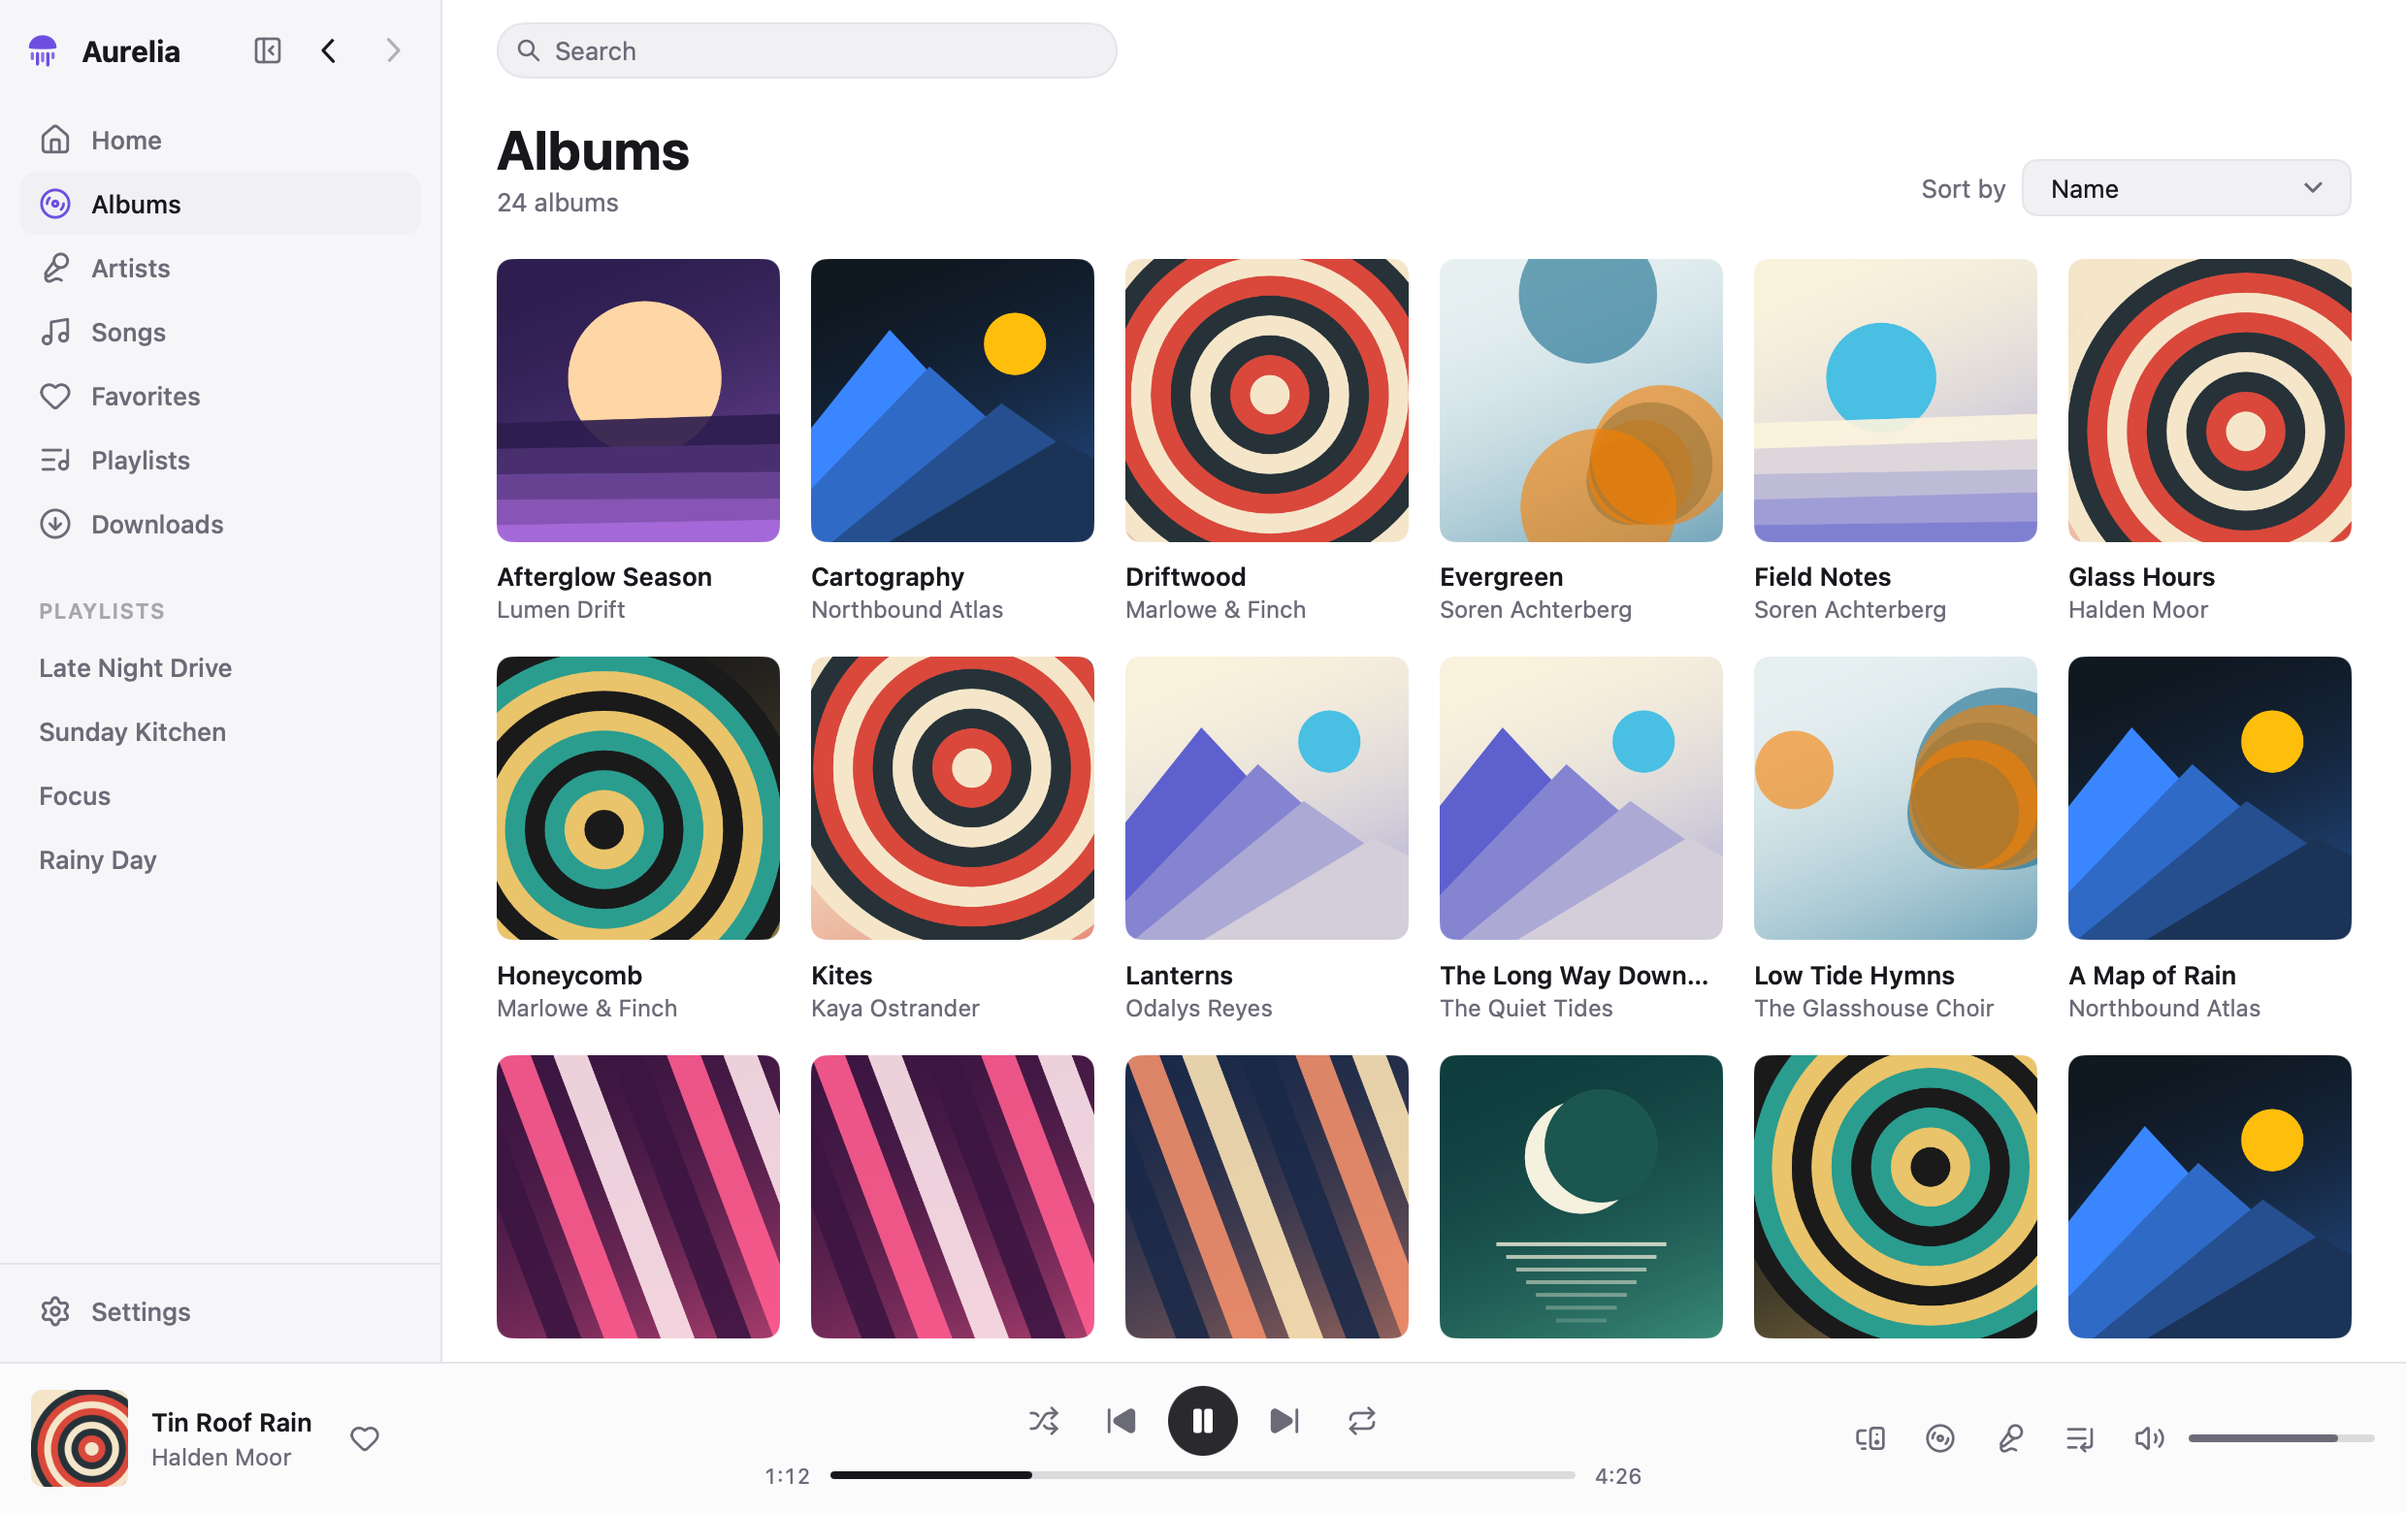
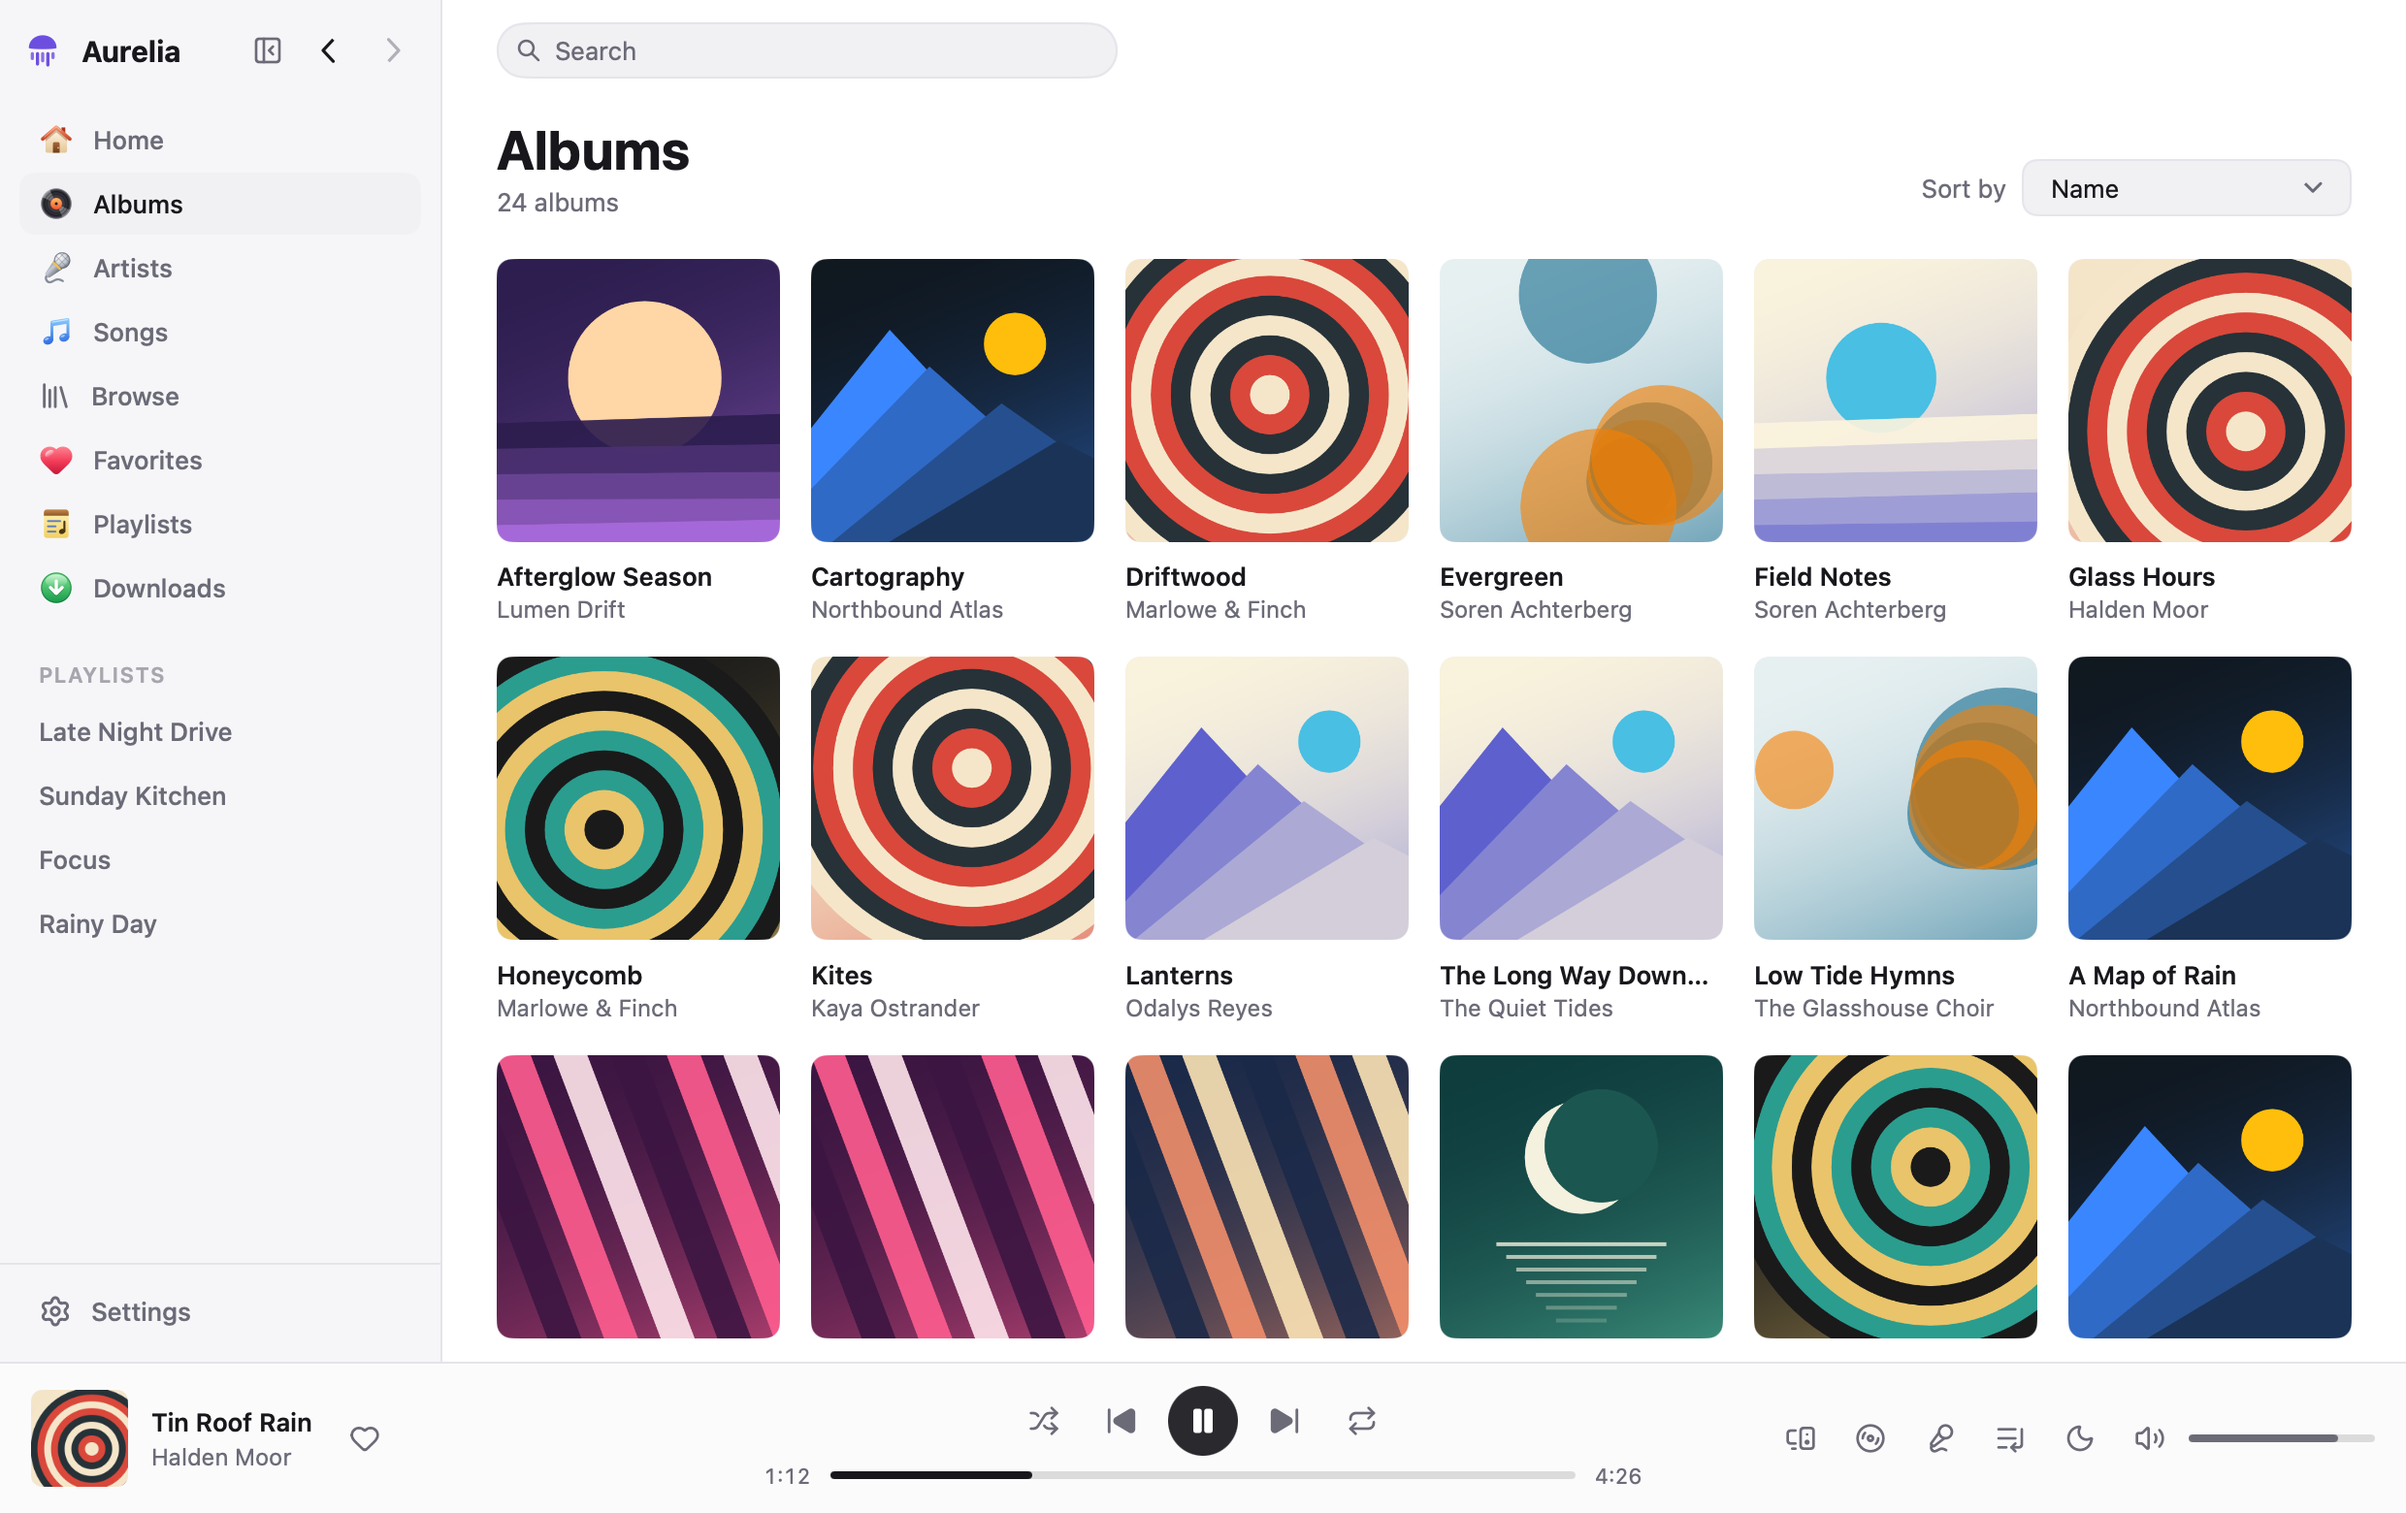
Aurelia 0.3.0
An equalizer, a choice of output device, crossfade and a sleep timer,
sharing a song or album as a picture, radio, playlists made here, browsing
by genre and decade, a tray icon, ListenBrainz scrobbling, LRCLIB lyrics and
short animations. README, screenshots and CHANGELOG are updated.

diff --git a/internal/jellyfin/client.go b/internal/jellyfin/client.go
@@ -18,7 +18,7 @@ import (
 
 // Version is sent to the server as the client's; the app sets it to its
 // own.
-var Version = "0.2.0"
+var Version = "0.3.0"
 
 // Session is a signed-in user on a server, which the app keeps between
 // runs. It holds a token, never the password.

diff --git a/README.md b/README.md
@@ -23,6 +23,9 @@ playlists. It does not show movies or shows.
 | ![Lyrics and the queue](docs/lyrics.png) | ![A window at its smallest](docs/small.png) |
 | ![Albums, in the light theme](docs/albums-light.png) | ![An artist, in Tokyo Night](docs/artist-tokyo-night.png) |
 | ![Search, in Catppuccin Mocha](docs/search-catppuccin.png) | ![The themes](docs/themes.png) |
+| ![Browsing by genre and decade](docs/browse.png) | ![The equalizer](docs/equalizer.png) |
+
+![Sharing an album as a picture](docs/share.png)
 
 The screenshots show a library made up for them, with pictures drawn by
 `screenshots_test.go`: `AURELIA_SCREENSHOTS=docs go test -run Screenshots .`
@@ -100,7 +103,42 @@ installing a newer `.deb` instead.
   connections. Volume normalization plays every song about as loud, at one
   of three levels as in Spotify: Louder, Normal or Quieter. Plays are
   reported to the server.
-- **Lyrics**, with the line being sung lit when the lyrics are timed.
+- **An equalizer** of ten bands and a preamp, with presets and your own,
+  heard the instant a slider moves; with mono audio and a balance.
+- **Your choice of output.** Settings ▸ Playback lists the computer's
+  outputs, and the one you choose is kept: the sound moves to it while a
+  song plays, and goes back to the system's default when it is not plugged
+  in, and back again when it is. **Crossfade** (2 to 12 seconds, never
+  between songs that follow each other on an album) and a **sleep timer**
+  (after a time, with the sound fading out, or at the end of the song or
+  the album) are there too.
+- **Share as a picture.** "Share as a Picture…" in the menu of a song or an
+  album makes a clean picture of its cover with its name and the artist's,
+  on white, on black, on a color of your own or on the cover's own colors,
+  square, tall for stories or wide, to copy or save as a PNG.
+- **Radio.** "Start Radio" on a song, an album or an artist plays songs the
+  server finds like it; "Keep playing similar songs" (off unless you turn it
+  on) goes on with them when the queue ends. Artists' pages say who else
+  their fans like.
+- **Playlists, made here.** Add a song or an album to a playlist, make a new
+  one, rename it, put its songs in another order, take one out, delete it,
+  or keep the queue as a playlist. They are the server's, so every device
+  has them.
+- **Browse by genre and by decade**, "Your listening" (what you play most),
+  and the songs sorted by what was played lately, most, or never. Pin
+  albums, artists and playlists to the sidebar.
+- **Lyrics**, with the line being sung lit when the lyrics are timed. When
+  the server has none, Aurelia can ask LRCLIB, a free database of them, if
+  you let it (Settings ▸ Playback; it is told the song's artist, title,
+  album and length).
+- **On your desktop.** An icon in the menu bar or the tray with the song and
+  its buttons (and closing the window leaves the music playing), a
+  notification as the song changes while Aurelia is behind, and
+  **scrobbling to ListenBrainz** or a server of your own that speaks as it
+  does: your token in Settings ▸ Scrobbling.
+- **Short animations**, a hint of movement as pages, panels and pictures
+  come in, that follow the system's Reduce motion (Settings ▸ Appearance ▸
+  Animations).
 - **The record.** A button of the player's bar, or V, shows the song in
   place of the app: its cover as a record that turns while it plays, over
   the cover's own colors, and the lyrics under it, each line sliding up as
@@ -306,6 +344,7 @@ Colors are `#rgb`, `#rrggbb`, `#rrggbbaa`, `rgb()`, `rgba()` or `hsl()`.
 | ⌥⇧H, ⌥⇧4, ⌥⇧3, ⌥⇧2, ⌥⇧S, ⌥⇧1, ⌥⇧D | Home, Albums, Artists, Songs, Favorites, Playlists, Downloads; ⌘1 … ⌘6 too |
 | ⌥⇧J | The album of the song playing |
 | ⌥⇧Q / ⌥⇧L | The queue / the lyrics |
+| ⌥⇧E | The equalizer |
 | V / F / ⇧⌘M | The record in the window / in full screen / in a small window |
 | ⌘B | Show or hide the sidebar |
 | ⇧⌘R | Update the library |

diff --git a/CHANGELOG.md b/CHANGELOG.md
@@ -1,5 +1,33 @@
 # Changes
 
+## 0.3.0
+
+- An equalizer: ten bands and a preamp, presets and your own, heard as a
+  slider moves. Mono audio and a balance beside it.
+- A choice of output device in Settings ▸ Playback, kept between runs. The
+  sound moves while a song plays, falls back to the default when the device
+  is gone, and returns to it when it is back. On macOS, Linux (PulseAudio and
+  ALSA) and Windows.
+- Crossfade between songs, 2 to 12 seconds, never between songs that follow
+  each other on an album; and a sleep timer, after a time (the sound fades)
+  or at the end of the song or the album.
+- Share as a Picture: the cover, the name and the artist on white, black,
+  a color of your own or the cover's colors, as a square, a story or a wide
+  picture, copied or saved as a PNG.
+- Start Radio on songs, albums and artists, and "Keep playing similar
+  songs" for when the queue ends. "Fans also like" on artists' pages.
+- Playlists made here: add to a playlist, new, rename, delete, move and
+  remove songs, and keep the queue as a playlist. Pin albums, artists and
+  playlists to the sidebar.
+- Browse by genre and by decade, Your listening, the songs by Recently
+  Played and Never Played, and Song Info with how a song is played.
+- Short animations as pages, panels and pictures come in, with a setting
+  that follows the system's Reduce motion; and bars that move beside the
+  song playing.
+- An icon in the menu bar or the tray, a notification as the song changes,
+  scrobbling to ListenBrainz, and lyrics from LRCLIB when the server has
+  none (off until you turn it on).
+
 ## 0.2.0
 
 - The record: a button of the player's bar, or V, shows the song as its

diff --git a/TODO.md b/TODO.md
@@ -62,10 +62,16 @@ little kept on disk.
         *(macOS verified; the return is checked every five seconds)*
   - [x] Changing the device while a song plays does not stop the song.
         *(macOS verified, to a virtual device and back)*
-  - [ ] On macOS, Windows and Linux. macOS done; Linux (PulseAudio and
-        ALSA) is tested in CI against two PulseAudio sinks; Windows
-        (WASAPI) is written and its listing is run in CI, but no Windows
-        machine with a sound card has played through it yet.
+  - [ ] On macOS, Windows and Linux. **macOS** verified in the app.
+        **Linux, PulseAudio** verified in CI (`TestPulseDevices`): sound
+        was played on one of two sinks, moved to the other while it played,
+        and PulseAudio was asked which it was on; a sink that does not
+        exist falls back to the default. **Linux, ALSA** is written (its
+        outputs are listed from ALSA's hints and one is opened by name) and
+        not tried: CI has PulseAudio. **Windows** (WASAPI) is written
+        (the endpoints are listed and opened by ID, and the render loop
+        opens another when asked) and vetted, and its listing runs in CI,
+        where no sound card exists: no one has played through it yet.
 - [ ] *Suggested, to choose from:*
   - [ ] Normalization by album as well as by song, so that an album
         keeps its own quiet and loud songs.
@@ -77,9 +83,6 @@ little kept on disk.
 Taken from Spotify and from other clients of Jellyfin and Navidrome
 (Feishin, Finamp, Supersonic, Plexamp). These are Claude's suggestions,
 not asked for one by one: strike out what is not wanted.
-
-Playing
-
 
 Library
 
